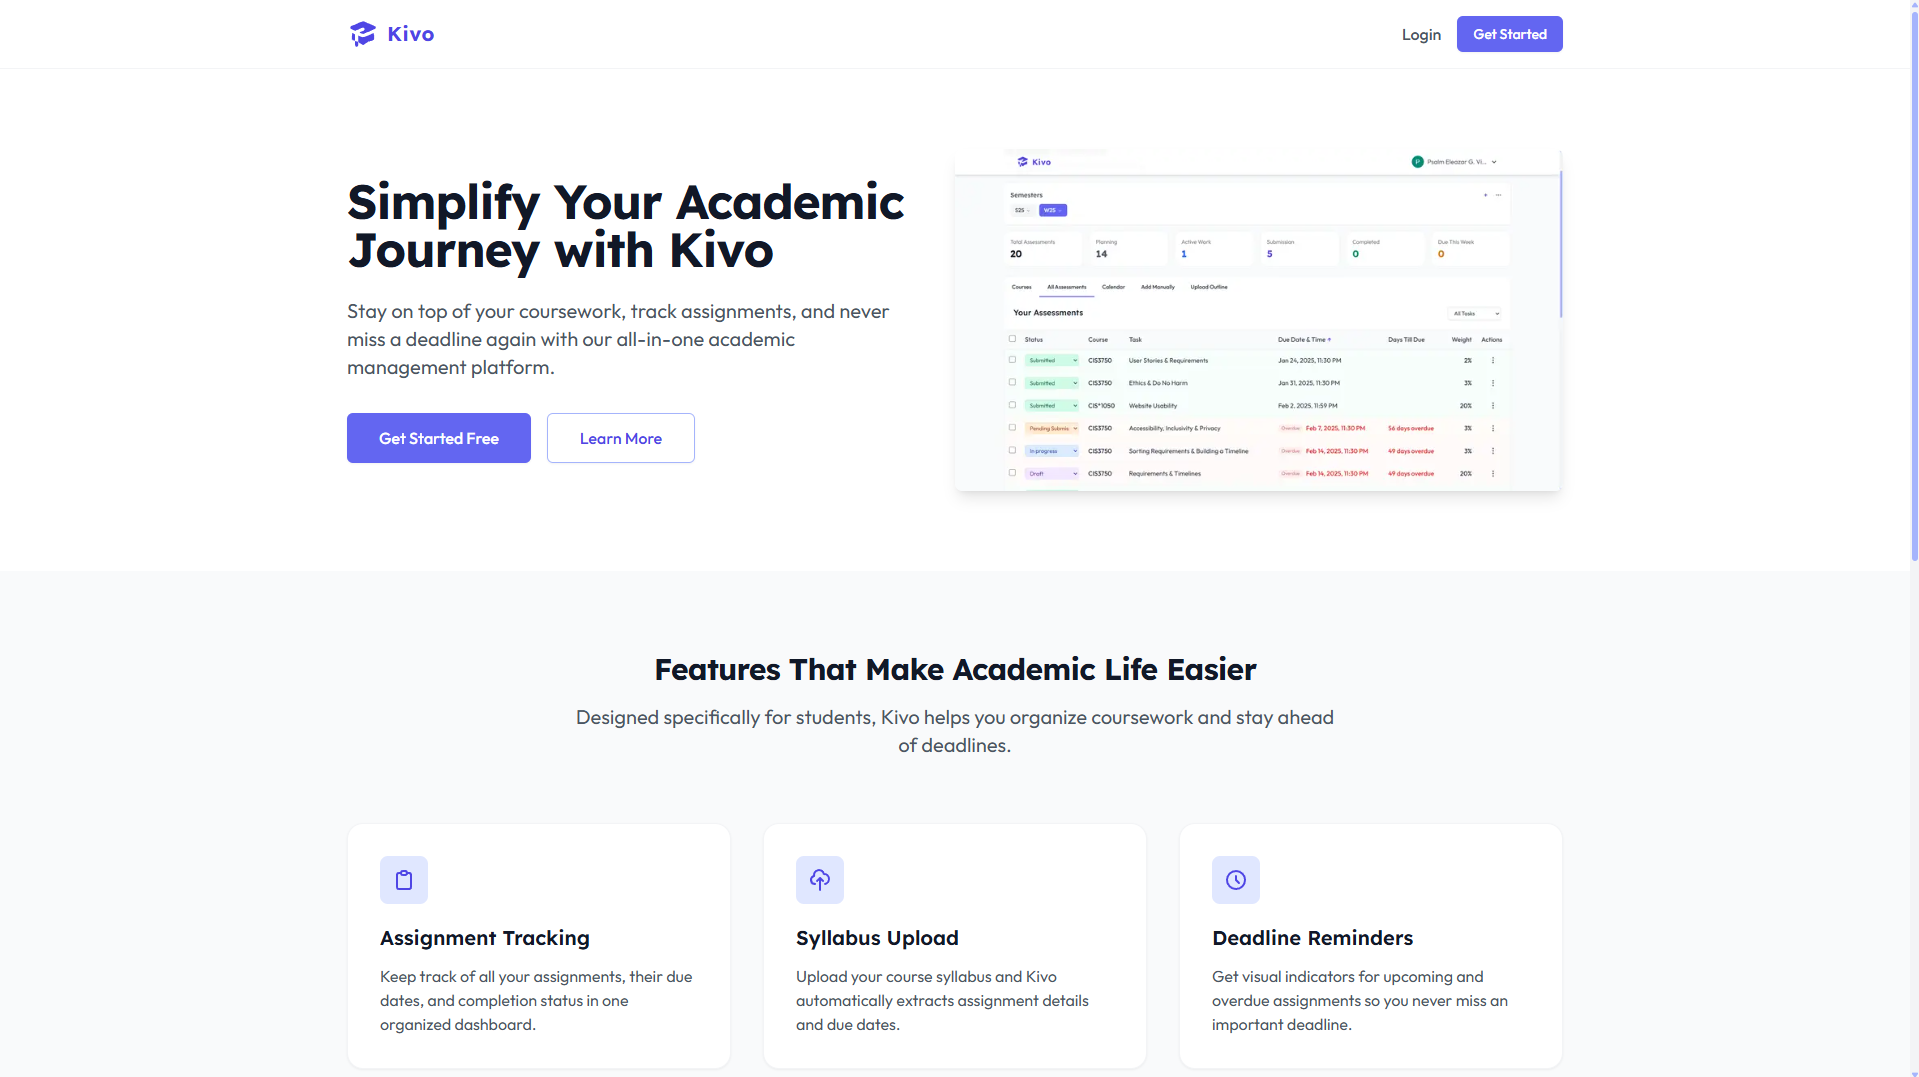
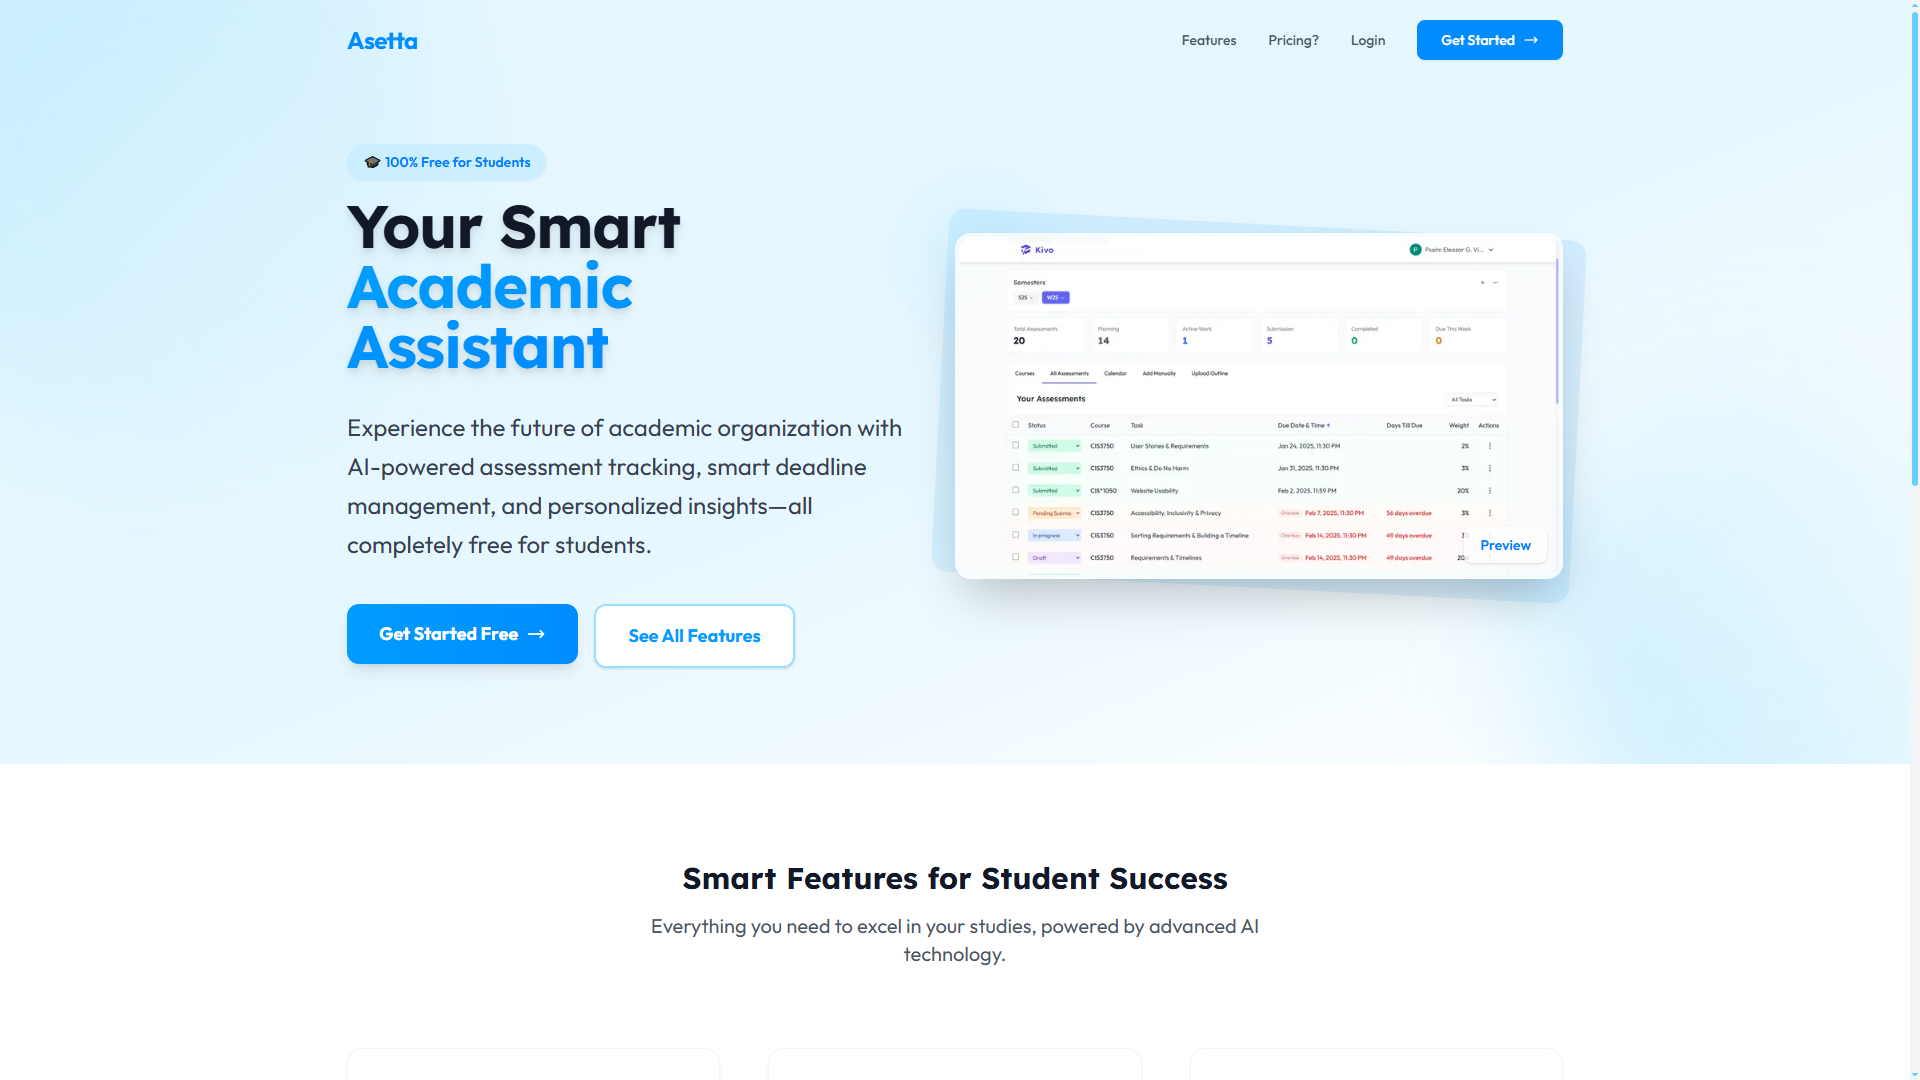
kivo to asetta

diff --git a/src/data/projects.js b/src/data/projects.js
@@ -360,10 +360,10 @@ const projects = [
     github: false,
   },
   {
-    id: "kivo",
-    title: "Kivo",
+    id: "asetta",
+    title: "Asetta",
     description:
-      "Kivo is an academic task management system designed to help students organize coursework, track assignments, and manage deadlines efficiently. As the lead developer, I created this full-stack application using Next.js, React, TypeScript, and Firebase for the backend. The application features automatic extraction of assignment details from uploaded course outlines using PDF parsing, semester management with intuitive organization of courses and assessments, calendar integration with exportable ICS files, and comprehensive deadline tracking with visual indicators for upcoming and overdue tasks. I implemented a robust authentication system with both email/password and Google authentication options, designed a clean, responsive UI with Tailwind CSS, and created a scalable Firebase architecture for secure data storage. This project significantly enhanced my skills in Next.js API routes, Firebase integration, PDF parsing, and building complex user interfaces with state management.",
+      "Asetta is an academic task management system designed to help students organize coursework, track assignments, and manage deadlines efficiently. As the lead developer, I created this full-stack application using Next.js, React, TypeScript, and Firebase for the backend. The application features automatic extraction of assignment details from uploaded course outlines using PDF parsing, semester management with intuitive organization of courses and assessments, calendar integration with exportable ICS files, and comprehensive deadline tracking with visual indicators for upcoming and overdue tasks. I implemented a robust authentication system with both email/password and Google authentication options, designed a clean, responsive UI with Tailwind CSS, and created a scalable Firebase architecture for secure data storage. This project significantly enhanced my skills in Next.js API routes, Firebase integration, PDF parsing, and building complex user interfaces with state management.",
     state: "In Development",
     link: null,
     image: pimg14,
